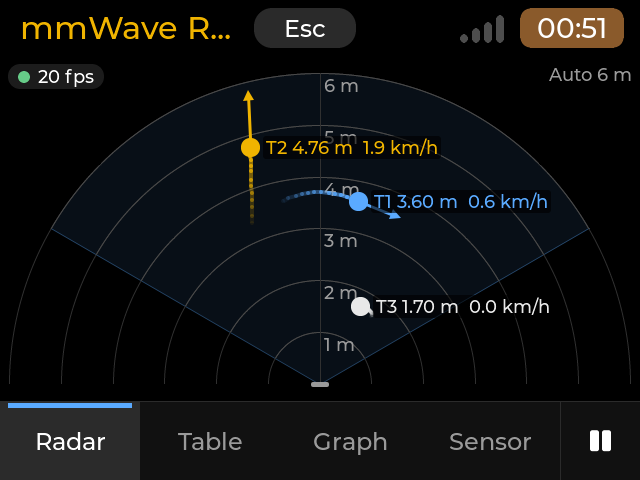
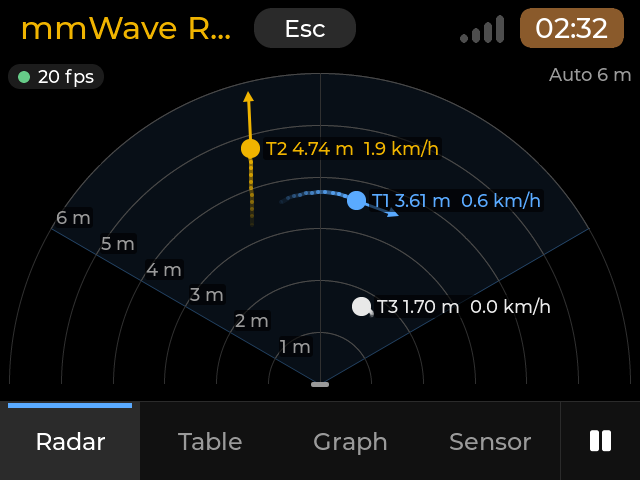
mmwave-radar: README, board test and screenshots for the tall Radar page and the diagnostic marker
Claude-Session: https://claude.ai/code/session_01DZirtLRRFpxSjax5Qp5ZSW

diff --git a/apps/mmwave-radar/README.md b/apps/mmwave-radar/README.md
@@ -8,8 +8,9 @@ nothing to the sensor, not even to find it (study: launcher report 056).
 ## Screenshots
 
 `screenshots/` (rendered by the PC harness with the scripted ports, `build.sh host`): `01-radar-640x480`,
-`02-radar-480x320`, `03-radar-320x480`, `04-table-480x320`, `05-graph-640x480`, `06-sensor-320x480`,
-`07-notfound-480x320`, `08-table-320x480`.
+`02-radar-480x320`, `03-radar-320x480` (the tall page at the board's 6.1 px/mm), `04-table-480x320`,
+`05-graph-640x480`, `06-sensor-320x480`, `07-notfound-480x320`, `08-table-320x480`, `09-radar-480x800` (the tall page
+with the strip chart).
 
 ## What it does
 
@@ -21,7 +22,11 @@ Four pages, switched by the tab strip at the bottom, the Left / Right keys or th
   last 2 s, an arrow along its movement that grows with its speed, and a label such as `T1 1.23 m  3.6 km/h`. The range
   is Auto (the farthest target plus 0.5 m, rounded up to 2, 4 or 6 m, shrinking only well inside the smaller step) or
   fixed with + / - or the Range setting; it shows in the corner. A chip in the top left: the link dot (green found,
-  amber searching, red lost or error, grey busy) and the frames per second; `PAUSED` while paused.
+  amber searching, red lost or error, grey busy) and the frames per second; `PAUSED` while paused. The ring labels sit
+  along the left edge of the field of view, so a target near the centre line never covers them. On a tall screen
+  (480x800, 320x480 on the board) the plot sits at the top at full width and a compact list of T1-T3 follows (distance,
+  angle, speed and direction in the units chosen; an empty slot is a dimmed `-`), and where there is room (480x800) a
+  strip chart of the distance over the last 30 s.
 - **Table.** One row per slot T1-T3: x, y, distance, angle, speed, direction (Approaching / Receding / Still) and
   resolution in the sensor's own units (mm, cm/s, degrees), whatever the Units setting says; an empty slot is a dimmed
   `-`. On a narrow screen each target takes two lines, the label above each value.
@@ -85,18 +90,30 @@ The minimum screens are 480x320 (landscape) and 320x480 (portrait in PDA mode); 
 800x480, 720x720, 1280x800, 480x640, 480x800). The page header is the launcher's (Esc, title, status strip); at
 320x480 the Esc sits at the left edge and there is no title (the launcher's narrow portrait rule; with the current
 toolkit pin the bar keeps its 56 px, see Known limits). The tab strip is one 7 mm row high (44 px on the 6.1 px/mm
-480x320 panels). The plot, the table and the graph are drawn by draw events; the radar's static background (wedge,
+480x320 panels). The Radar page is tall when the wedge, laid out at full width under the chip row, leaves room for the
+three two-line list rows below it (`core/view.hpp` `radar_layout`): 480x800 (plot 291 px, list 208 px, strip chart
+120 px) and 320x480 at the board's 6.1 px/mm (plot 193 px, list 139 px); 480x640, 320x480 with the 80 px tab strip of
+an 11.3 px/mm panel and every landscape or square size keep the plot over the whole page. The plot, the table and the
+graph are drawn by draw events; the radar's static background (wedge,
 rings, labels) is drawn once into a canvas, and each frame redraws only where the targets moved, at most 20 times a
 second and never more than half of the time (the render time paces it). `MMWAVE_TIMING=1` logs the render time every
-5 s. `MMWAVE_LOG=<file>` (off by default) appends one diagnostic line a second (link state, port, speed, frame counters,
-the three slots as the tracker holds them) plus once the port settings and the raw bytes of the first three frames that
-held a target; it never sends anything to the sensor.
+5 s. `MMWAVE_LOG=<file>` or the marker file `diag` in the settings folder (off by default, see Known behaviour)
+appends one diagnostic line a second (link state, port, speed, frame counters, the three slots as the tracker holds
+them) plus once the port settings and the raw bytes of the first three frames that held a target; it never sends
+anything to the sensor.
 
 ## Known behaviour
 
 - A still target: the sensor can report a person at rest (speed 0.0 km/h) and keeps reporting it; the app shows what the
   sensor sends and drops a slot 0.5 s after the sensor stops sending it. Our own recordings of an empty room
   (`tests/data/empty-*.bin`) decode to empty frames in every slot, and the tests check that no target stays on screen.
+- The diagnostic log (off by default). The launcher starts the app, where no variable can be set, so a marker file turns
+  it on: `touch ~/.config/mmwave-radar/diag` (the app's settings folder, see Files the app keeps), then start the app.
+  It writes `~/.config/mmwave-radar/mmwave.log`: a first line `log on (marker ...)`, the start line, then one line a
+  second (link state, port, speed, frame counters, the three slots) and once the port settings and the raw bytes of the
+  first three frames that held a target. The log is cut to its last 200 KB at each start (and while running once it
+  reaches 400 KB). `rm ~/.config/mmwave-radar/diag` turns it off; without the marker the app writes no log file at all.
+  `MMWAVE_LOG=<file>` (started by hand) does the same into that file, without the cut.
 
 ## The code
 
@@ -113,7 +130,8 @@ replays the recorded walk from `tests/data`, or `$MMWAVE_DEMO_FILE`).
 ## Files the app keeps
 
 `~/.config/mmwave-radar/` (or `$XDG_CONFIG_HOME/mmwave-radar/`): `settings.conf` (units, orientation, range, trails) and
-`remembered.conf` (the port id and speed of the last radar), both written atomically. Delete the folder to reset.
+`remembered.conf` (the port id and speed of the last radar), both written atomically. Delete the folder to reset. Only
+when you create the marker file `diag` there: `mmwave.log` (the diagnostic log, at most about 400 KB).
 
 ## Multitasking
 
@@ -170,4 +188,5 @@ Build from a WSL native-filesystem LF copy with fresh build dirs (`CDK_BUILD`, `
 ## Changes
 
 - 0.1.0 (draft): first version: Radar, Table, Graph and Sensor pages, listen-only detection, units, orientation,
-  range and trails settings, 480x320 and 320x480 minimum layouts.
+  range and trails settings, 480x320 and 320x480 minimum layouts; the tall Radar page (plot, target list, distance
+  strip), ring labels on the wedge's edge, the diagnostic log's marker file.

diff --git a/apps/mmwave-radar/tests/BOARD-TESTS.md b/apps/mmwave-radar/tests/BOARD-TESTS.md
@@ -44,6 +44,14 @@ plot look smooth? Is the touch still quick (tabs, pause)?
 3. A GPS or another serial board on the port only: "No radar found", the TRIED list names it (e.g. "GPS receiver
    (NMEA)"), the wiring table, Rescan works. The other device keeps working afterwards (nothing was sent to it).
 
+## T4b. Tall screen and the diagnostic log (2 min, Pi 3A+ 480x800)
+
+1. `touch ~/.config/mmwave-radar/diag`, then open mmWave Radar from the launcher with one person walking: the plot at
+   the top at full width, the ring labels (`1 m`, `2 m` ...) along the left edge of the wedge, under it the T1-T3 list
+   (distance, angle, speed, direction; empty slots `-`) and the 30 s distance strip; nothing under the tab strip.
+2. Close the app: `~/.config/mmwave-radar/mmwave.log` begins with `log on (marker ...)` and has a line a second. Send it
+   if something looked wrong, then `rm ~/.config/mmwave-radar/diag` (no log file is written without it).
+
 ## T5. Exit (30 s)
 
 Esc key and the header's Esc end the app; the port is free again (Serial Console can open it).
